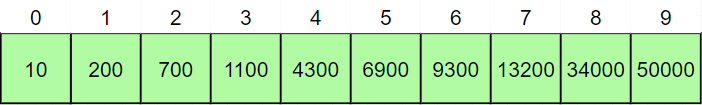
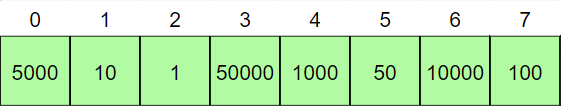
post

diff --git a/_posts/2020-11-19-search.md b/_posts/2020-11-19-search.md
@@ -8,8 +8,8 @@ header:
 
 <img src="{{ site.url }}{{ site.baseurl }}/assets/images/box.png" alt="">
 
-0번부터 9번까지 총 10개의 상자가 있다.
-근데 A는 이 상자중에 9300원이 들어있는 상자를 찾고싶다.
+0번부터 7번까지 총 8개의 상자가 있다.
+근데 A는 이 상자중에 10000원이 들어있는 상자를 찾고싶다.
 어떤 방법으로 찾아야 할까?
 
 A는 원하는 상자를 2가지 탐색방법으로 찾을것이다.
@@ -19,23 +19,69 @@ A는 원하는 상자를 2가지 탐색방법으로 찾을것이다.
 
 ## 선형탐색
 
-* 선형탐색은 위의 상자를 0번부터 9번까지 순차적으로 탐색하는 것을 말한다.
+* 선형탐색은 위의 상자를 0번부터 7번까지 순차적으로 탐색하는 것을 말한다.
 
-* 순차적으로 탐색하므로 정리되어있지 않은 자료라도 사용가능한 방법이다.(정리되어있지 않은 자료탐색시 유리함)
+* 순차적으로 탐색하므로 정리되어있지 않은 자료라도 사용가능한 방법이다.
 
 <img src="{{ site.url }}{{ site.baseurl }}/assets/images/linear search.png" alt="">
 
 
 
-```python
-    i = [10, 200, 700, 1100, 4300, 6900, 9300, 13200, 34000, 50000]
-    j = int(input('찾는 숫자를 입력하세요: '))
+* 선형탐색 알고리즘
 
-    for k in range(len(i)+1):
-        if i[k] == j:
-            print('%d는 %d번 인덱스에 있습니다.' % (j, k))
+```python
+    box = [5000, 10, 1, 50000, 1000, 50, 10000, 100]
+    find = int(input('찾는 값을 입력하세요: '))
+
+    for i in range(len(box) + 1):
+        if box[i] == find:
+            print('%d원은 %d번 상자에 있습니다.' % (find, i))
             break
 ```
 
-이진탐색
-정리되어있는 데이터를 탐색할때 사용가능하고 정리되어있지 않으면 불가능한 방법
+
+
+## 이진탐색
+
+* 정렬되어있는 데이터 중 특정 값을 찾아내는 방법이다.
+
+* 선형탐색보다 탐색시간이 빠르지만 정렬되어있지 않다면 사용할수 없다.
+
+* 이진탐색 알고리즘
+
+```python
+    def binary(find, box):
+        first = 0
+        last = len(box) - 1
+
+        while first <= last:
+            mid = (first + last) // 2
+            
+            if box[mid] == find:
+                return mid
+            
+            elif box[mid] < find:
+                first = mid + 1
+                
+            elif box[mid] > find:
+                last = mid - 1
+                
+        return print("찾는 값이 없습니다.")
+
+    box = [5000, 10, 1, 50000, 1000, 50, 10000, 100]
+    box.sort()
+    find = int(input('찾는 값을 입력하세요: '))
+
+    print(binary(find, box))
+```
+
+
+* 이진탐색 방법
+
+<img src="{{ site.url }}{{ site.baseurl }}/assets/images/binary search1.png" alt="">
+
+<img src="{{ site.url }}{{ site.baseurl }}/assets/images/linear search.png" alt="">
+
+<img src="{{ site.url }}{{ site.baseurl }}/assets/images/linear search.png" alt="">
+
+<img src="{{ site.url }}{{ site.baseurl }}/assets/images/linear search.png" alt="">
